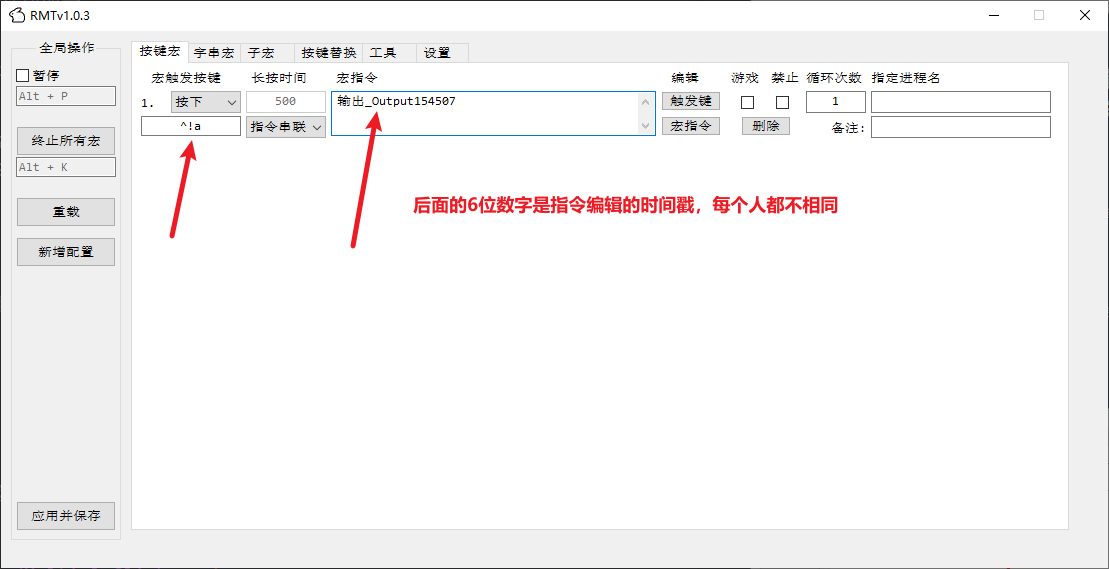
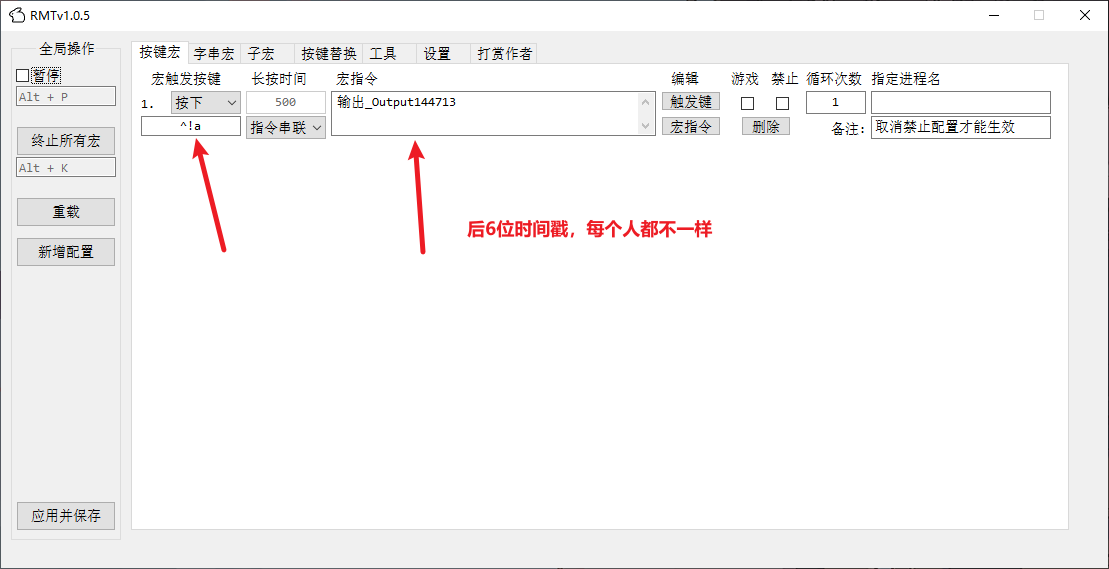
优化

diff --git a/Web/快速上手.md b/Web/快速上手.md
@@ -15,7 +15,7 @@
 3. 设置宏指令：点击 `宏指令`按钮 → 指令选项中点击 `按键` → 点击按键`A` → 设置`按键时间80`,`循环次数10` → 点击按键编辑界面`确定`按钮 → 点击宏指令编辑界面`确定`按钮。
 
     ![最终按键配置界面](/RMT/Web/Images/Quickly/MultiplyClickSet.png) 
-    ***图示：搜索指令配置结果***
+    ***图示：按键指令配置界面***
 4. 主界面左侧点击`应用并保存`按钮即可。
 
     ![最终配置界面](/RMT/Web/Images/Quickly/MultiplyClick.png) 
@@ -33,7 +33,12 @@
 
 1. 添加新宏: 点击左侧`新增配置`按钮。
 2. 设置触发按键：在`触发键`编辑界面勾选你想要的组合键，例如 `Ctrl + Alt + A`。
+
+    ![触发键配置界面](/RMT/Web/Images/Quickly/ComTriggerSet.png) 
+    ***图示：触发键配置界面***
 3. 设置宏指令：在`宏指令`编辑界面 → 指令选项中点击 `输出` → `文本框`中输入`RMT` → 点击输出编辑界面`确定`按钮 → 点击宏指令编辑界面`确定`按钮。
+    ![最终按键配置界面](/RMT/Web/Images/Quickly/OutputSet.png) 
+    ***图示：输出指令配置界面***
 4. 主界面左侧点击`应用并保存`按钮即可。
 
     ![最终配置界面](/RMT/Web/Images/Quickly/ComTrigger.png) 
